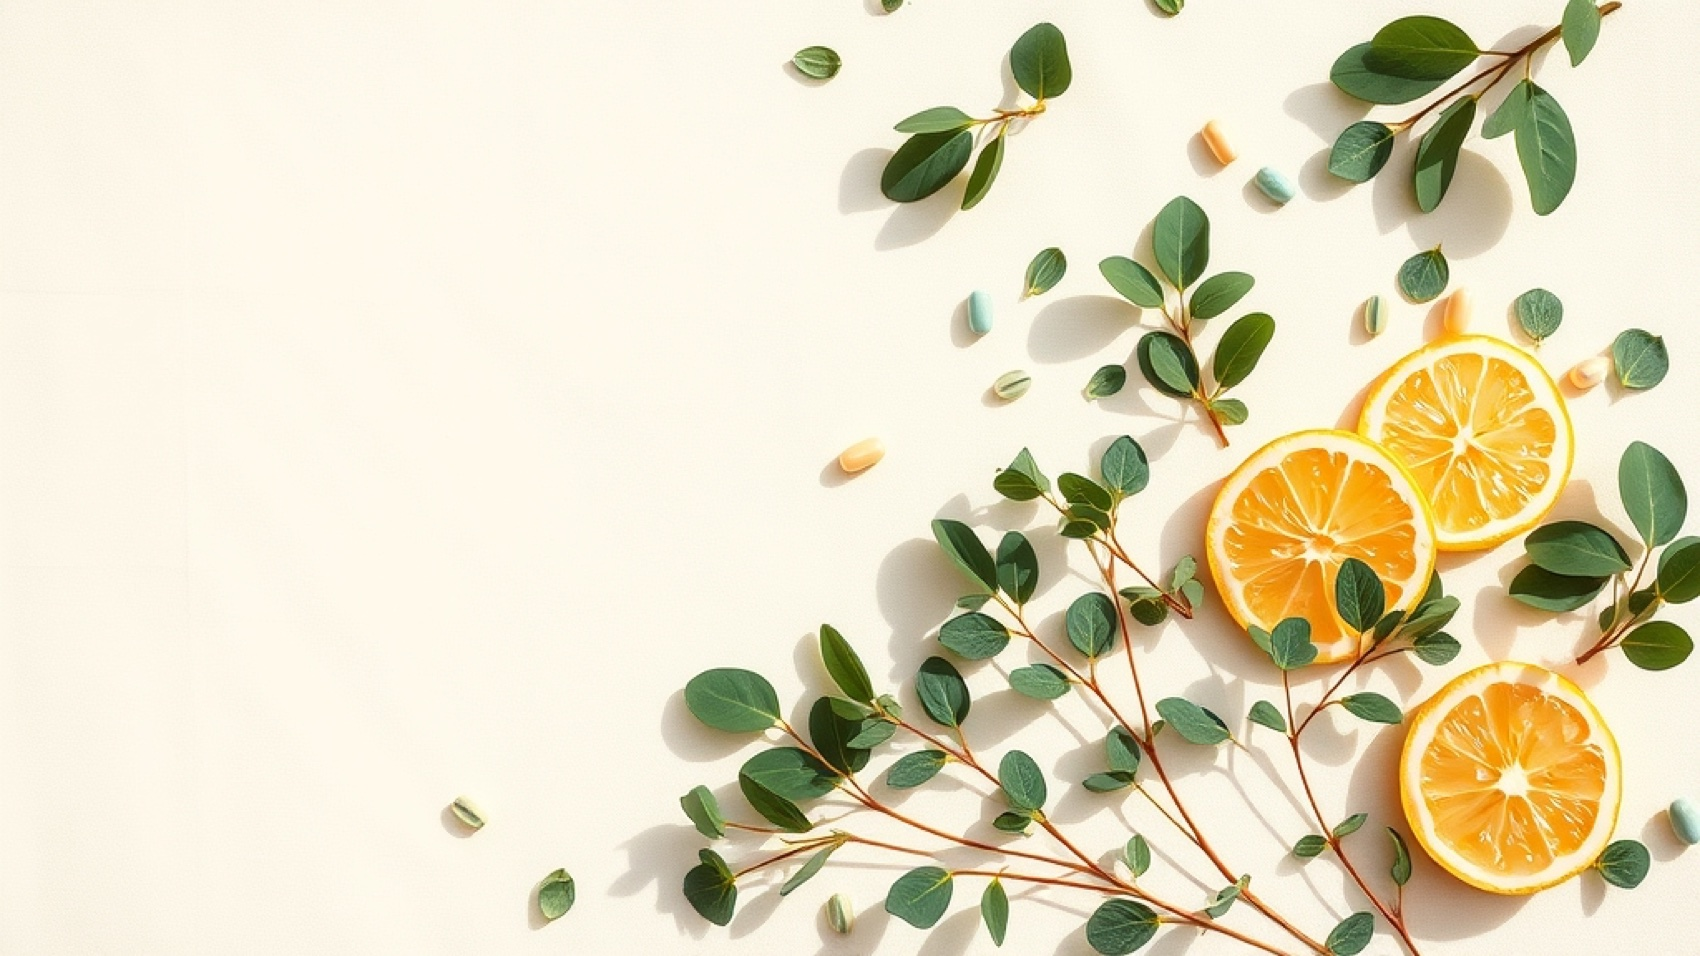
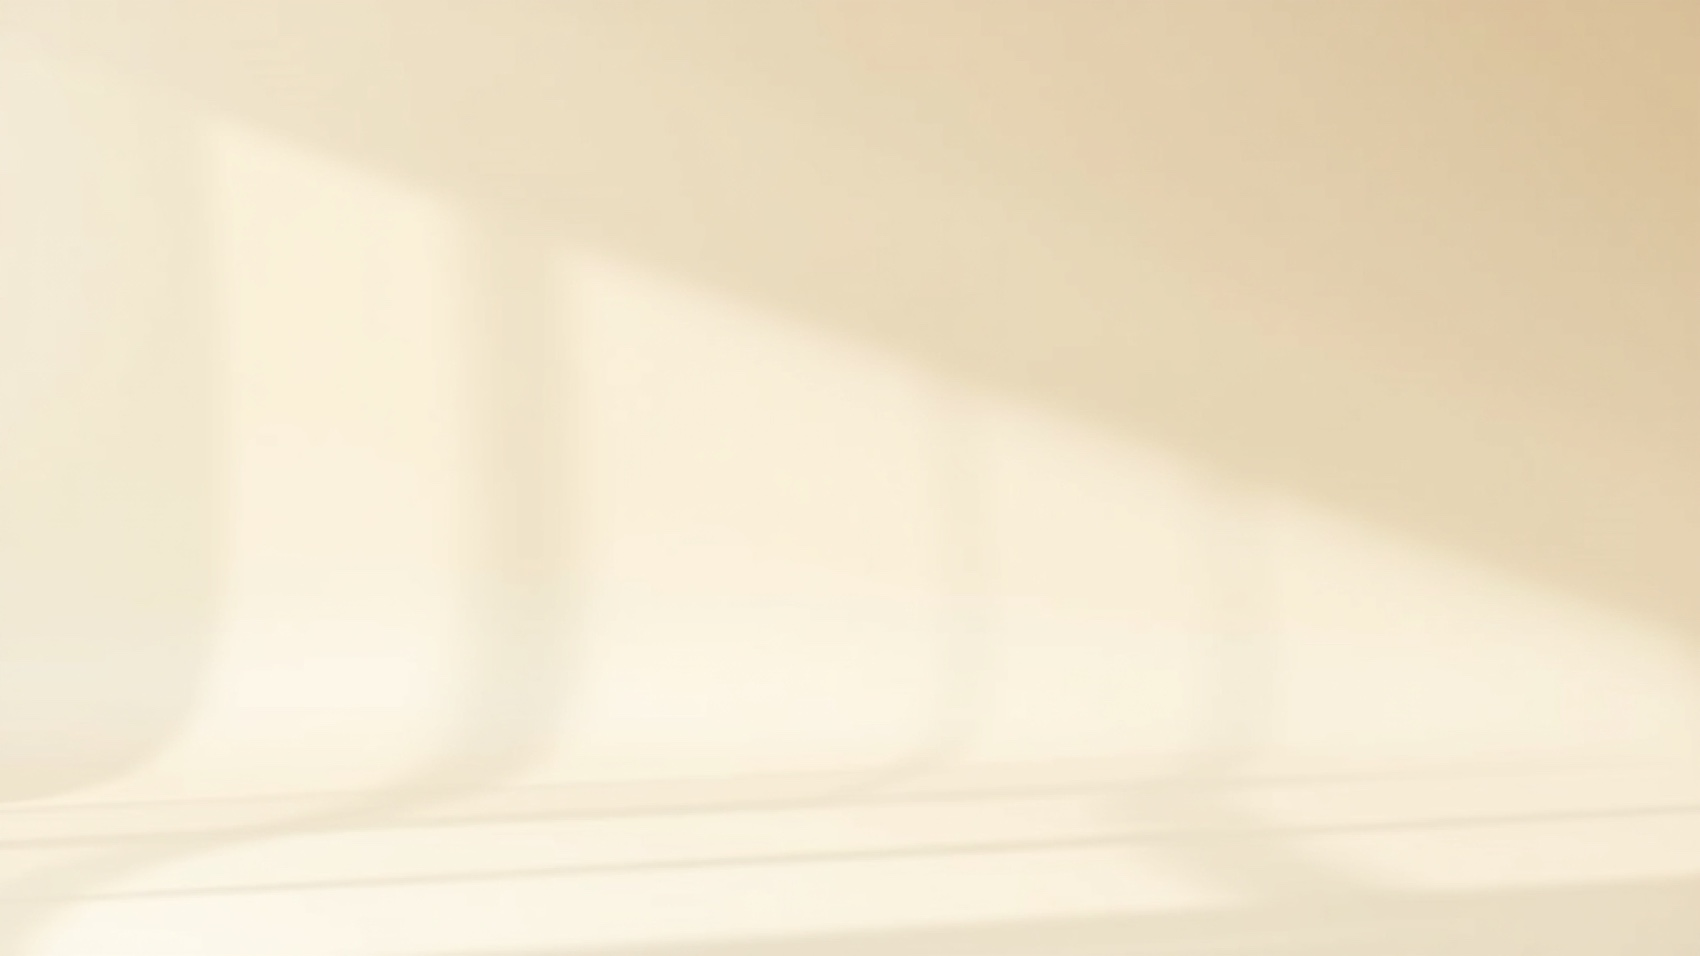
Deploy amandean redesign mockup

diff --git a/brands/amandean/styles.css b/brands/amandean/styles.css
@@ -199,7 +199,7 @@
 .s-hero{
   position:relative;
   min-height:88vh;
-  background:url('assets/herobg.jpg') center left / cover no-repeat;
+  background:url('assets/herobg.jpg') center center / cover no-repeat;
   display:flex;
   align-items:center;
   overflow:hidden;